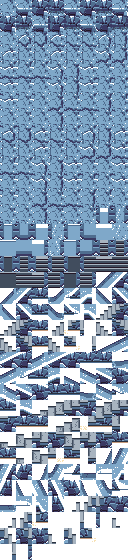
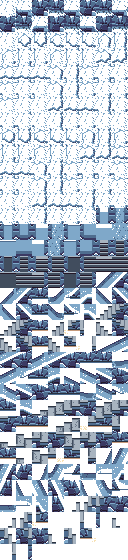
feat(cliffs): white crystalline ice ground
Retunes the ice biome's floorFill to a white-dominant crystalline
look and bakes/re-pins the resulting cliffIce.png. Desert cliff.png
is byte-identical (verified via determinism test and diff --stat);
only the ice branch of terrains.ts changed.

Claude-Session: https://claude.ai/code/session_01CsoGbggLTgKSVFsJfMxvyd

diff --git a/tools/pipeline/src/cliffs/terrains.ts b/tools/pipeline/src/cliffs/terrains.ts
@@ -87,17 +87,29 @@ export function floorFill(key: TerrainKey, seed: number): PixelGrid {
         if (h2(x, y, seed + 31) > 0.95) idx = 0; // sparse light fleck (~5%)
         else if (h2(x, y, seed + 53) > 0.96) idx = 2; // sparser dark speck (~4%)
       } else if (key === "ice") {
-        // Frosted crystalline floor (Task 8): a skyBlue body carved into
-        // large calm facets by slate hairline cracks (the toroidal Voronoi
-        // boundaries precomputed above), with indigo dashes marking the
-        // deepest crack pixels, sparse white glints and faint slate frost
-        // specks on the facet interiors. Visibly icy, but much quieter than
-        // the cliff face — it's a walking surface.
+        // Frosted floor (Task 8c retune): a bright WHITE crystalline body
+        // (idx 0, swapped from the previous skyBlue-dominant pass — owner
+        // wants this to read as white ice, not blue) with a scattering of
+        // single-pixel skyBlue accents (hash-placed via `h2`, same style as
+        // the sand branch's flecks above — coherent `fbm`/`noise()`
+        // thresholding was tried and rejected in the prior pass: `fbm`'s
+        // dominant cells=2 octave banded into hard stripes when
+        // thresholded directly, and a smoother single-octave `noise()`
+        // lattice produced a bold repeating blob/snowflake motif — both
+        // read as MORE graphic/patterned than plain scattered speckle, the
+        // opposite of "smooth"). Slate stays a rare dusting only on the
+        // tightest Voronoi seams (the toroidal boundary field precomputed
+        // above), giving a faint, calm hairline — and, since the plateau
+        // top reuses this same fill and the blob outline pass only darkens
+        // a boundary pixel by one ramp step (white -> skyBlue), that
+        // hairline chance also helps the cap edge read against an
+        // all-white body instead of relying solely on the one-step
+        // outline shade. Indigo is dropped entirely — it was the dark
+        // element driving the original "too dark and noisy" read.
         const e = iceEdge![y * T + x];
-        idx = 1; // skyBlue body
-        if (e < 0.42) idx = h2(x, y, seed + 61) > 0.9 ? 3 : 2; // hairline crack (rare indigo dash)
-        else if (h2(x, y, seed + 31) > 0.97) idx = 0; // white glint
-        else if (h2(x, y, seed + 53) > 0.95) idx = 2; // frost speck
+        idx = 0; // white body
+        if (h2(x, y, seed + 31) > 0.88) idx = 1; // scattered skyBlue accent (~12%)
+        else if (e < 0.1 && h2(x, y, seed + 61) > 0.85) idx = 2; // rare, faint hairline seam (~1-2%)
       } else {
         // asphalt — prototype's generic branch, collapsed per the mapping above.
         // Prototype: col=P[v<0.36?1:v<0.58?0:v<0.82?2:3]; if h2(...)>0.93 col=P[4]

diff --git a/tests/pipeline/determinism.test.ts b/tests/pipeline/determinism.test.ts
@@ -405,7 +405,7 @@ describe("cliff tileset byte-stability", () => {
   // 370 named tiles + 6 blank pad (8 columns x 47 rows). Visual look approved before pinning.
   const FROZEN = {
[3 lines of base64/hex data omitted]
   } as const;
 
   it("cliff.png encodes to its committed bytes", () => {